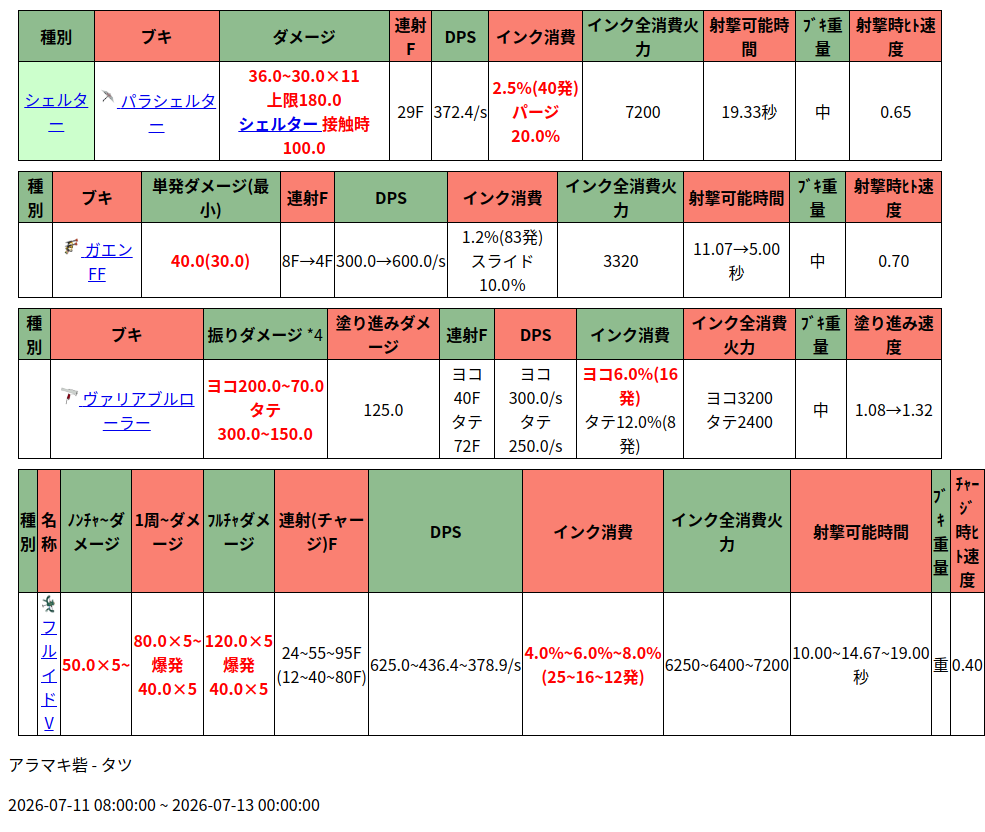
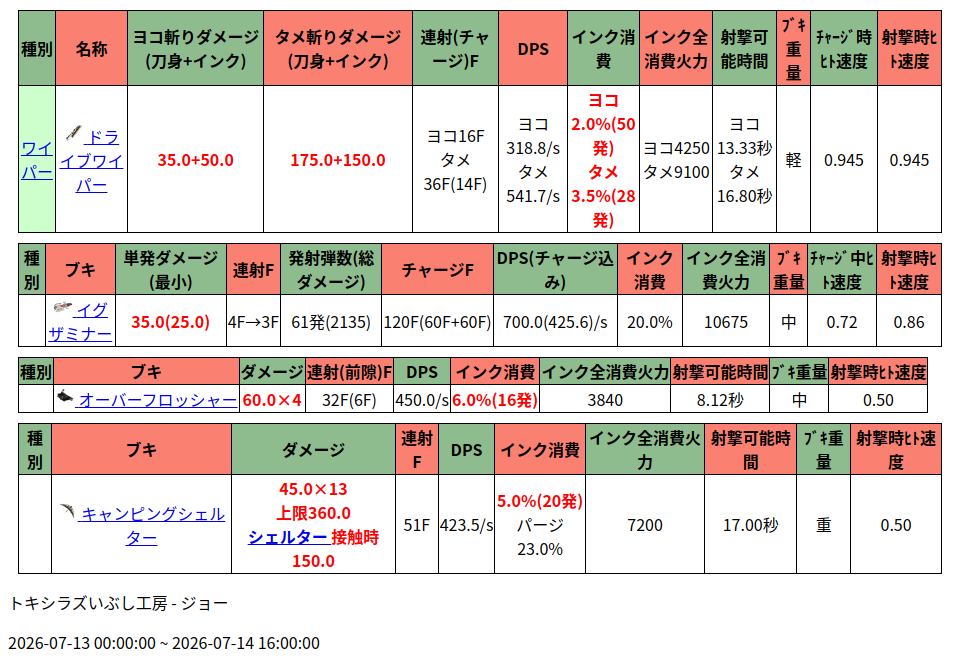
Automated changes by GitHub Actions

diff --git a/salmonRun.html b/salmonRun.html
@@ -1,1 +1,1 @@
-<head><meta charset="UTF-8"><style>table{border-collapse: collapse;border: 1px solid black;margin:10px;}td, th {border: 1px solid black;}</style></head><table><thead> <tr>  <td style="background-color:DarkSeaGreen; text-align:center;">   <strong>    種別   </strong>  </td>  <td style="background-color:Salmon; text-align:center;">   <strong>    ブキ   </strong>  </td>  <td style="background-color:DarkSeaGreen; text-align:center;">   <strong>    ダメージ   </strong>  </td>  <td style="background-color:Salmon; text-align:center;">   <strong>    連射F   </strong>  </td>  <td style="background-color:DarkSeaGreen; text-align:center;">   <strong>    DPS   </strong>  </td>  <td style="background-color:Salmon; text-align:center;">   <strong>    インク消費   </strong>  </td>  <td style="background-color:DarkSeaGreen; text-align:center;">   <strong>    インク全消費火力   </strong>  </td>  <td style="background-color:Salmon; text-align:center;">   <strong>    射撃可能時間   </strong>  </td>  <td style="background-color:DarkSeaGreen; text-align:center;">   <strong>    ﾌﾞｷ重量   </strong>  </td>  <td style="background-color:Salmon; text-align:center;">   <strong>    射撃時ﾋﾄ速度   </strong>  </td> </tr></thead><tr> <td rowspan="5" style="background-color:#ccffcc; text-align:center;">  <a class="rel-wiki-page" href="/splatoon3mix/%E3%83%96%E3%82%AD/%E3%82%B7%E3%82%A7%E3%83%AB%E3%82%BF%E3%83%BC%E5%B1%9E" title="ブキ/シェルター属">   シェルター  </a> </td> <td style="text-align:center;">  <a data-lightbox="imageset" href="https://cdn.wikiwiki.jp/to/w/splatoon3mix/icon/::attach/%E3%83%91%E3%83%A9%E3%82%B7%E3%82%A7%E3%83%AB%E3%82%BF%E3%83%BC.png?rev=b37a3174dd7867802d15de24c5bb0f3a&amp;t=20220906104623" title="パラシェルター">   <img alt="パラシェルター" height="20" loading="lazy" src="https://cdn.wikiwiki.jp/to/w/splatoon3mix/icon/::ref/%E3%83%91%E3%83%A9%E3%82%B7%E3%82%A7%E3%83%AB%E3%82%BF%E3%83%BC.png?rev=b37a3174dd7867802d15de24c5bb0f3a&amp;t=20220906104623" title="パラシェルター" width="20"/>  </a>  <a class="rel-wiki-page" href="/splatoon3mix/%E3%83%96%E3%82%AD/%E3%83%91%E3%83%A9%E3%82%B7%E3%82%A7%E3%83%AB%E3%82%BF%E3%83%BC" title="ブキ/パラシェルター">   パラシェルター  </a> </td> <td style="text-align:center;">  <span class="wikicolor" style="color:Red">   <strong>    36.0~30.0×11    <br class="spacer"/>    上限180.0    <br class="spacer"/>    <a class="rel-wiki-page" href="/splatoon3mix/%E3%83%96%E3%82%AD/%E3%82%B7%E3%82%A7%E3%83%AB%E3%82%BF%E3%83%BC%E5%B1%9E" title="ブキ/シェルター属">     シェルター    </a>    接触時100.0   </strong>  </span> </td> <td style="text-align:center;">  29F </td> <td style="text-align:center;">  372.4/s </td> <td style="text-align:center;">  <span class="wikicolor" style="color:Red">   <strong>    2.5%(40発)    <br class="spacer"/>    パージ20.0%   </strong>  </span> </td> <td style="text-align:center;">  7200 </td> <td style="text-align:center;">  19.33秒 </td> <td style="text-align:center;">  中 </td> <td style="text-align:center;">  0.65 </td></tr></table><table><thead> <tr>  <td style="background-color:DarkSeaGreen; text-align:center;">   <strong>    種別   </strong>  </td>  <td style="background-color:Salmon; text-align:center;">   <strong>    ブキ   </strong>  </td>  <td style="background-color:DarkSeaGreen; text-align:center;">   <strong>    単発ダメージ(最小)   </strong>  </td>  <td style="background-color:Salmon; text-align:center;">   <strong>    連射F   </strong>  </td>  <td style="background-color:DarkSeaGreen; text-align:center;">   <strong>    DPS   </strong>  </td>  <td style="background-color:Salmon; text-align:center;">   <strong>    インク消費   </strong>  </td>  <td style="background-color:DarkSeaGreen; text-align:center;">   <strong>    インク全消費火力   </strong>  </td>  <td style="background-color:Salmon; text-align:center;">   <strong>    射撃可能時間   </strong>  </td>  <td style="background-color:DarkSeaGreen; text-align:center;">   <strong>    ﾌﾞｷ重量   </strong>  </td>  <td style="background-color:Salmon; text-align:center;">   <strong>    射撃時ﾋﾄ速度   </strong>  </td> </tr></thead><tr><td></td> <td style="text-align:center;">  <a data-lightbox="imageset" href="https://cdn.wikiwiki.jp/to/w/splatoon3mix/icon/::attach/%E3%82%AC%E3%82%A8%E3%83%B3FF.png?rev=c59ffedf75a4c75c89c11f6b80984cd3&amp;t=20240302124703" title="ガエンFF">   <img alt="ガエンFF" height="20" loading="lazy" src="https://cdn.wikiwiki.jp/to/w/splatoon3mix/icon/::ref/%E3%82%AC%E3%82%A8%E3%83%B3FF.png.webp?rev=c59ffedf75a4c75c89c11f6b80984cd3&amp;t=20240302124703" title="ガエンFF" width="20"/>  </a>  <a class="rel-wiki-page" href="/splatoon3mix/%E3%83%96%E3%82%AD/%E3%82%AC%E3%82%A8%E3%83%B3FF" title="ブキ/ガエンFF">   ガエンFF  </a> </td> <td style="text-align:center;">  <span class="wikicolor" style="color:Red">   <strong>    40.0(30.0)   </strong>  </span> </td> <td style="text-align:center;">  8F→4F </td> <td style="text-align:center;">  300.0→600.0/s </td> <td style="text-align:center;">  1.2%(83発)  <br class="spacer"/>  スライド10.0％ </td> <td style="text-align:center;">  3320 </td> <td style="text-align:center;">  11.07→5.00秒 </td> <td style="text-align:center;">  中 </td> <td style="text-align:center;">  0.70 </td></tr></table><table><thead> <tr>  <td style="background-color:DarkSeaGreen; text-align:center;">   <strong>    種別   </strong>  </td>  <td style="background-color:Salmon; text-align:center;">   <strong>    ブキ   </strong>  </td>  <td style="background-color:DarkSeaGreen; text-align:center;">   <strong>    振りダメージ   </strong>   <a class="note_super tooltip" data-tooltip-content='&lt;p&gt;距離によってダメージが変動し、時間経過によって最大0.5倍の減衰がかかる。&lt;/p&gt;&lt;div style="text-align: right;"&gt;&lt;a href="#notefoot_4"&gt;脚注 *4 へ&lt;/a&gt;&lt;/div&gt;' id="notetext_4">    *4   </a>  </td>  <td style="background-color:Salmon; text-align:center;">   <strong>    塗り進みダメージ   </strong>  </td>  <td style="background-color:DarkSeaGreen; text-align:center;">   <strong>    連射F   </strong>  </td>  <td style="background-color:Salmon; text-align:center;">   <strong>    DPS   </strong>  </td>  <td style="background-color:DarkSeaGreen; text-align:center;">   <strong>    インク消費   </strong>  </td>  <td style="background-color:Salmon; text-align:center;">   <strong>    インク全消費火力   </strong>  </td>  <td style="background-color:DarkSeaGreen; text-align:center;">   <strong>    ﾌﾞｷ重量   </strong>  </td>  <td style="background-color:Salmon; text-align:center;">   <strong>    塗り進み速度   </strong>  </td> </tr></thead><tr><td></td> <td style="text-align:center;">  <a data-lightbox="imageset" href="https://cdn.wikiwiki.jp/to/w/splatoon3mix/icon/::attach/%E3%83%B4%E3%82%A1%E3%83%AA%E3%82%A2%E3%83%96%E3%83%AB%E3%83%AD%E3%83%BC%E3%83%A9%E3%83%BC.png?rev=ca05919a5b43e3f8795a2be2eb28bbfc&amp;t=20220905220053" title="ヴァリアブルローラー">   <img alt="ヴァリアブルローラー" height="20" loading="lazy" src="https://cdn.wikiwiki.jp/to/w/splatoon3mix/icon/::ref/%E3%83%B4%E3%82%A1%E3%83%AA%E3%82%A2%E3%83%96%E3%83%AB%E3%83%AD%E3%83%BC%E3%83%A9%E3%83%BC.png?rev=ca05919a5b43e3f8795a2be2eb28bbfc&amp;t=20220905220053" title="ヴァリアブルローラー" width="20"/>  </a>  <a class="rel-wiki-page" href="/splatoon3mix/%E3%83%96%E3%82%AD/%E3%83%B4%E3%82%A1%E3%83%AA%E3%82%A2%E3%83%96%E3%83%AB%E3%83%AD%E3%83%BC%E3%83%A9%E3%83%BC" title="ブキ/ヴァリアブルローラー">   ヴァリアブルローラー  </a> </td> <td style="text-align:center;">  <span class="wikicolor" style="color:Red">   <strong>    ヨコ200.0~70.0    <br class="spacer"/>    タテ300.0~150.0   </strong>  </span> </td> <td style="text-align:center;">  125.0 </td> <td style="text-align:center;">  ヨコ40F  <br class="spacer"/>  タテ72F </td> <td style="text-align:center;">  ヨコ300.0/s  <br class="spacer"/>  タテ250.0/s </td> <td style="text-align:center;">  <span class="wikicolor" style="color:Red">   <strong>    ヨコ6.0%(16発)   </strong>  </span>  <br class="spacer"/>  タテ12.0%(8発) </td> <td style="text-align:center;">  ヨコ3200  <br class="spacer"/>  タテ2400 </td> <td style="text-align:center;">  中 </td> <td style="text-align:center;">  1.08→1.32 </td></tr></table><table><thead> <tr>  <td style="background-color:DarkSeaGreen; text-align:center;">   <strong>    種別   </strong>  </td>  <td style="background-color:Salmon; text-align:center;">   <strong>    名称   </strong>  </td>  <td style="background-color:DarkSeaGreen; text-align:center;">   <strong>    ﾉﾝﾁｬ~ダメージ   </strong>  </td>  <td style="background-color:Salmon; text-align:center;">   <strong>    1周~ダメージ   </strong>  </td>  <td style="background-color:DarkSeaGreen; text-align:center;">   <strong>    ﾌﾙﾁｬダメージ   </strong>  </td>  <td style="background-color:Salmon; text-align:center;">   <strong>    連射(チャージ)F   </strong>  </td>  <td style="background-color:DarkSeaGreen; text-align:center;">   <strong>    DPS   </strong>  </td>  <td style="background-color:Salmon; text-align:center;">   <strong>    インク消費   </strong>  </td>  <td style="background-color:DarkSeaGreen; text-align:center;">   <strong>    インク全消費火力   </strong>  </td>  <td style="background-color:Salmon; text-align:center;">   <strong>    射撃可能時間   </strong>  </td>  <td style="background-color:DarkSeaGreen; text-align:center;">   <strong>    ﾌﾞｷ重量   </strong>  </td>  <td style="background-color:Salmon; text-align:center;">   <strong>    ﾁｬｰｼﾞ時ﾋﾄ速度   </strong>  </td> </tr></thead><tr><td></td> <td style="text-align:center;">  <a data-lightbox="imageset" href="https://cdn.wikiwiki.jp/to/w/splatoon3mix/icon/::attach/%E3%83%95%E3%83%AB%E3%82%A4%E3%83%89V.png?rev=c944225c8294454c88576758a02a0bfc&amp;t=20240603134357" title="フルイドV">   <img alt="フルイドV" height="20" loading="lazy" src="https://cdn.wikiwiki.jp/to/w/splatoon3mix/icon/::ref/%E3%83%95%E3%83%AB%E3%82%A4%E3%83%89V.png.webp?rev=c944225c8294454c88576758a02a0bfc&amp;t=20240603134357" title="フルイドV" width="20"/>  </a>  <a class="rel-wiki-page" href="/splatoon3mix/%E3%83%96%E3%82%AD/%E3%83%95%E3%83%AB%E3%82%A4%E3%83%89V" title="ブキ/フルイドV">   フルイドV  </a> </td> <td style="text-align:center;">  <span class="wikicolor" style="color:Red">   <strong>    50.0×5~   </strong>  </span> </td> <td style="text-align:center;">  <span class="wikicolor" style="color:Red">   <strong>    80.0×5~    <br class="spacer"/>    爆発40.0×5   </strong>  </span> </td> <td style="text-align:center;">  <span class="wikicolor" style="color:Red">   <strong>    120.0×5    <br class="spacer"/>    爆発40.0×5   </strong>  </span> </td> <td style="text-align:center;">  24~55~95F  <br class="spacer"/>  (12~40~80F) </td> <td style="text-align:center;">  625.0~436.4~378.9/s </td> <td style="text-align:center;">  <span class="wikicolor" style="color:Red">   <strong>    4.0%~6.0%~8.0%    <br class="spacer"/>    (25~16~12発)   </strong>  </span> </td> <td style="text-align:center;">  6250~6400~7200 </td> <td style="text-align:center;">  10.00~14.67~19.00秒 </td> <td style="text-align:center;">  重 </td> <td style="text-align:center;">  0.40 </td></tr></table><p>アラマキ砦 - タツ</p><p>2026-07-11 08:00:00 ~ 2026-07-13 00:00:00</p>
+<head><meta charset="UTF-8"><style>table{border-collapse: collapse;border: 1px solid black;margin:10px;}td, th {border: 1px solid black;}</style></head><table><thead> <tr>  <td style="background-color:DarkSeaGreen; text-align:center;">   <strong>    種別   </strong>  </td>  <td style="background-color:Salmon; text-align:center;">   <strong>    名称   </strong>  </td>  <td style="background-color:DarkSeaGreen; text-align:center;">   <strong>    ヨコ斬りダメージ(刀身+インク)   </strong>  </td>  <td style="background-color:Salmon; text-align:center;">   <strong>    タメ斬りダメージ(刀身+インク)   </strong>  </td>  <td style="background-color:DarkSeaGreen; text-align:center;">   <strong>    連射(チャージ)F   </strong>  </td>  <td style="background-color:Salmon; text-align:center;">   <strong>    DPS   </strong>  </td>  <td style="background-color:DarkSeaGreen; text-align:center;">   <strong>    インク消費   </strong>  </td>  <td style="background-color:Salmon; text-align:center;">   <strong>    インク全消費火力   </strong>  </td>  <td style="background-color:DarkSeaGreen; text-align:center;">   <strong>    射撃可能時間   </strong>  </td>  <td style="background-color:Salmon; text-align:center;">   <strong>    ﾌﾞｷ重量   </strong>  </td>  <td style="background-color:DarkSeaGreen; text-align:center;">   <strong>    ﾁｬｰｼﾞ時ﾋﾄ速度   </strong>  </td>  <td style="background-color:Salmon; text-align:center;">   <strong>    射撃時ﾋﾄ速度   </strong>  </td> </tr></thead><tr> <td rowspan="4" style="background-color:#ccffcc; text-align:center;">  <a class="rel-wiki-page" href="/splatoon3mix/%E3%83%96%E3%82%AD/%E3%83%AF%E3%82%A4%E3%83%91%E3%83%BC%E5%B1%9E" title="ブキ/ワイパー属">   ワイパー  </a> </td> <td style="text-align:center;">  <a data-lightbox="imageset" href="https://cdn.wikiwiki.jp/to/w/splatoon3mix/icon/::attach/%E3%83%89%E3%83%A9%E3%82%A4%E3%83%96%E3%83%AF%E3%82%A4%E3%83%91%E3%83%BC.png?rev=b6018aed936af11ce2336c8c55f7d7d8&amp;t=20220906104603" title="ドライブワイパー">   <img alt="ドライブワイパー" height="20" loading="lazy" src="https://cdn.wikiwiki.jp/to/w/splatoon3mix/icon/::ref/%E3%83%89%E3%83%A9%E3%82%A4%E3%83%96%E3%83%AF%E3%82%A4%E3%83%91%E3%83%BC.png?rev=b6018aed936af11ce2336c8c55f7d7d8&amp;t=20220906104603" title="ドライブワイパー" width="20"/>  </a>  <a class="rel-wiki-page" href="/splatoon3mix/%E3%83%96%E3%82%AD/%E3%83%89%E3%83%A9%E3%82%A4%E3%83%96%E3%83%AF%E3%82%A4%E3%83%91%E3%83%BC" title="ブキ/ドライブワイパー">   ドライブワイパー  </a> </td> <td style="text-align:center;">  <span class="wikicolor" style="color:Red">   <strong>    35.0+50.0   </strong>  </span> </td> <td style="text-align:center;">  <span class="wikicolor" style="color:Red">   <strong>    175.0+150.0   </strong>  </span> </td> <td style="text-align:center;">  ヨコ16F  <br class="spacer"/>  タメ36F(14F) </td> <td style="text-align:center;">  ヨコ318.8/s  <br class="spacer"/>  タメ541.7/s </td> <td style="text-align:center;">  <span class="wikicolor" style="color:Red">   <strong>    ヨコ2.0%(50発)    <br class="spacer"/>    タメ3.5%(28発)   </strong>  </span> </td> <td style="text-align:center;">  ヨコ4250  <br class="spacer"/>  タメ9100 </td> <td style="text-align:center;">  ヨコ13.33秒  <br class="spacer"/>  タメ16.80秒 </td> <td style="text-align:center;">  軽 </td> <td style="text-align:center;">  0.945 </td> <td style="text-align:center;">  0.945 </td></tr></table><table><thead> <tr>  <td style="background-color:DarkSeaGreen; text-align:center;">   <strong>    種別   </strong>  </td>  <td style="background-color:Salmon; text-align:center;">   <strong>    ブキ   </strong>  </td>  <td style="background-color:DarkSeaGreen; text-align:center;">   <strong>    単発ダメージ(最小)   </strong>  </td>  <td style="background-color:Salmon; text-align:center;">   <strong>    連射F   </strong>  </td>  <td style="background-color:DarkSeaGreen; text-align:center;">   <strong>    発射弾数(総ダメージ)   </strong>  </td>  <td style="background-color:Salmon; text-align:center;">   <strong>    チャージF   </strong>  </td>  <td style="background-color:DarkSeaGreen; text-align:center;">   <strong>    DPS(チャージ込み)   </strong>  </td>  <td style="background-color:Salmon; text-align:center;">   <strong>    インク消費   </strong>  </td>  <td style="background-color:DarkSeaGreen; text-align:center;">   <strong>    インク全消費火力   </strong>  </td>  <td style="background-color:Salmon; text-align:center;">   <strong>    ﾌﾞｷ重量   </strong>  </td>  <td style="background-color:DarkSeaGreen; text-align:center;">   <strong>    ﾁｬｰｼﾞ中ﾋﾄ速度   </strong>  </td>  <td style="background-color:Salmon; text-align:center;">   <strong>    射撃時ﾋﾄ速度   </strong>  </td> </tr></thead><tr><td></td> <td style="text-align:center;">  <a data-lightbox="imageset" href="https://cdn.wikiwiki.jp/to/w/splatoon3mix/icon/::attach/%E3%82%A4%E3%82%B0%E3%82%B6%E3%83%9F%E3%83%8A%E3%83%BC.png?rev=ece8f62ace7229a26fac66755ea7b2aa&amp;t=20230902112810" title="イグザミナー">   <img alt="イグザミナー" height="20" loading="lazy" src="https://cdn.wikiwiki.jp/to/w/splatoon3mix/icon/::ref/%E3%82%A4%E3%82%B0%E3%82%B6%E3%83%9F%E3%83%8A%E3%83%BC.png?rev=ece8f62ace7229a26fac66755ea7b2aa&amp;t=20230902112810" title="イグザミナー" width="20"/>  </a>  <a class="rel-wiki-page" href="/splatoon3mix/%E3%83%96%E3%82%AD/%E3%82%A4%E3%82%B0%E3%82%B6%E3%83%9F%E3%83%8A%E3%83%BC" title="ブキ/イグザミナー">   イグザミナー  </a> </td> <td style="text-align:center;">  <span class="wikicolor" style="color:Red">   <strong>    35.0(25.0)   </strong>  </span> </td> <td style="text-align:center;">  4F→3F </td> <td style="text-align:center;">  61発(2135) </td> <td style="text-align:center;">  120F(60F+60F) </td> <td style="text-align:center;">  700.0(425.6)/s </td> <td style="text-align:center;">  20.0% </td> <td style="text-align:center;">  10675 </td> <td style="text-align:center;">  中 </td> <td style="text-align:center;">  0.72 </td> <td style="text-align:center;">  0.86 </td></tr></table><table><thead> <tr>  <td style="background-color:DarkSeaGreen; text-align:center;">   <strong>    種別   </strong>  </td>  <td style="background-color:Salmon; text-align:center;">   <strong>    ブキ   </strong>  </td>  <td style="background-color:DarkSeaGreen; text-align:center;">   <strong>    ダメージ   </strong>  </td>  <td style="background-color:Salmon; text-align:center;">   <strong>    連射(前隙)F   </strong>  </td>  <td style="background-color:DarkSeaGreen; text-align:center;">   <strong>    DPS   </strong>  </td>  <td style="background-color:Salmon; text-align:center;">   <strong>    インク消費   </strong>  </td>  <td style="background-color:DarkSeaGreen; text-align:center;">   <strong>    インク全消費火力   </strong>  </td>  <td style="background-color:Salmon; text-align:center;">   <strong>    射撃可能時間   </strong>  </td>  <td style="background-color:DarkSeaGreen; text-align:center;">   <strong>    ﾌﾞｷ重量   </strong>  </td>  <td style="background-color:Salmon; text-align:center;">   <strong>    射撃時ﾋﾄ速度   </strong>  </td> </tr></thead><tr><td></td> <td style="text-align:center;">  <a data-lightbox="imageset" href="https://cdn.wikiwiki.jp/to/w/splatoon3mix/icon/::attach/%E3%82%AA%E3%83%BC%E3%83%90%E3%83%BC%E3%83%95%E3%83%AD%E3%83%83%E3%82%B7%E3%83%A3%E3%83%BC.png?rev=afe5a9cc21242502cfc0347951e61fe4&amp;t=20220906103738" title="オーバーフロッシャー">   <img alt="オーバーフロッシャー" height="20" loading="lazy" src="https://cdn.wikiwiki.jp/to/w/splatoon3mix/icon/::ref/%E3%82%AA%E3%83%BC%E3%83%90%E3%83%BC%E3%83%95%E3%83%AD%E3%83%83%E3%82%B7%E3%83%A3%E3%83%BC.png?rev=afe5a9cc21242502cfc0347951e61fe4&amp;t=20220906103738" title="オーバーフロッシャー" width="20"/>  </a>  <a class="rel-wiki-page" href="/splatoon3mix/%E3%83%96%E3%82%AD/%E3%82%AA%E3%83%BC%E3%83%90%E3%83%BC%E3%83%95%E3%83%AD%E3%83%83%E3%82%B7%E3%83%A3%E3%83%BC" title="ブキ/オーバーフロッシャー">   オーバーフロッシャー  </a> </td> <td style="text-align:center;">  <span class="wikicolor" style="color:Red">   <strong>    60.0×4   </strong>  </span> </td> <td style="text-align:center;">  32F(6F) </td> <td style="text-align:center;">  450.0/s </td> <td style="text-align:center;">  <span class="wikicolor" style="color:Red">   <strong>    6.0%(16発)   </strong>  </span> </td> <td style="text-align:center;">  3840 </td> <td style="text-align:center;">  8.12秒 </td> <td style="text-align:center;">  中 </td> <td style="text-align:center;">  0.50 </td></tr></table><table><thead> <tr>  <td style="background-color:DarkSeaGreen; text-align:center;">   <strong>    種別   </strong>  </td>  <td style="background-color:Salmon; text-align:center;">   <strong>    ブキ   </strong>  </td>  <td style="background-color:DarkSeaGreen; text-align:center;">   <strong>    ダメージ   </strong>  </td>  <td style="background-color:Salmon; text-align:center;">   <strong>    連射F   </strong>  </td>  <td style="background-color:DarkSeaGreen; text-align:center;">   <strong>    DPS   </strong>  </td>  <td style="background-color:Salmon; text-align:center;">   <strong>    インク消費   </strong>  </td>  <td style="background-color:DarkSeaGreen; text-align:center;">   <strong>    インク全消費火力   </strong>  </td>  <td style="background-color:Salmon; text-align:center;">   <strong>    射撃可能時間   </strong>  </td>  <td style="background-color:DarkSeaGreen; text-align:center;">   <strong>    ﾌﾞｷ重量   </strong>  </td>  <td style="background-color:Salmon; text-align:center;">   <strong>    射撃時ﾋﾄ速度   </strong>  </td> </tr></thead><tr><td></td> <td style="text-align:center;">  <a data-lightbox="imageset" href="https://cdn.wikiwiki.jp/to/w/splatoon3mix/icon/::attach/%E3%82%AD%E3%83%A3%E3%83%B3%E3%83%94%E3%83%B3%E3%82%B0%E3%82%B7%E3%82%A7%E3%83%AB%E3%82%BF%E3%83%BC.png?rev=829b5f70eaabdff2b130d24dc4927151&amp;t=20220906104534" title="キャンピングシェルター">   <img alt="キャンピングシェルター" height="20" loading="lazy" src="https://cdn.wikiwiki.jp/to/w/splatoon3mix/icon/::ref/%E3%82%AD%E3%83%A3%E3%83%B3%E3%83%94%E3%83%B3%E3%82%B0%E3%82%B7%E3%82%A7%E3%83%AB%E3%82%BF%E3%83%BC.png?rev=829b5f70eaabdff2b130d24dc4927151&amp;t=20220906104534" title="キャンピングシェルター" width="20"/>  </a>  <a class="rel-wiki-page" href="/splatoon3mix/%E3%83%96%E3%82%AD/%E3%82%AD%E3%83%A3%E3%83%B3%E3%83%94%E3%83%B3%E3%82%B0%E3%82%B7%E3%82%A7%E3%83%AB%E3%82%BF%E3%83%BC" title="ブキ/キャンピングシェルター">   キャンピングシェルター  </a> </td> <td style="text-align:center;">  <span class="wikicolor" style="color:Red">   <strong>    45.0×13    <br class="spacer"/>    上限360.0    <br class="spacer"/>    <a class="rel-wiki-page" href="/splatoon3mix/%E3%83%96%E3%82%AD/%E3%82%B7%E3%82%A7%E3%83%AB%E3%82%BF%E3%83%BC%E5%B1%9E" title="ブキ/シェルター属">     シェルター    </a>    接触時150.0   </strong>  </span> </td> <td style="text-align:center;">  51F </td> <td style="text-align:center;">  423.5/s </td> <td style="text-align:center;">  <span class="wikicolor" style="color:Red">   <strong>    5.0%(20発)   </strong>  </span>  <br class="spacer"/>  パージ23.0% </td> <td style="text-align:center;">  7200 </td> <td style="text-align:center;">  17.00秒 </td> <td style="text-align:center;">  重 </td> <td style="text-align:center;">  0.50 </td></tr></table><p>トキシラズいぶし工房 - ジョー</p><p>2026-07-13 00:00:00 ~ 2026-07-14 16:00:00</p>